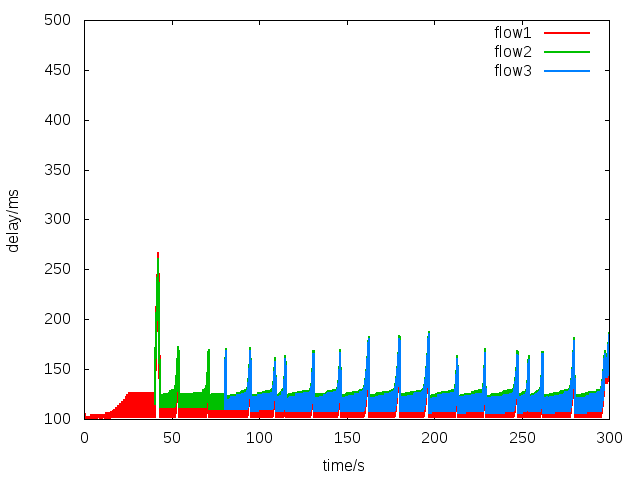
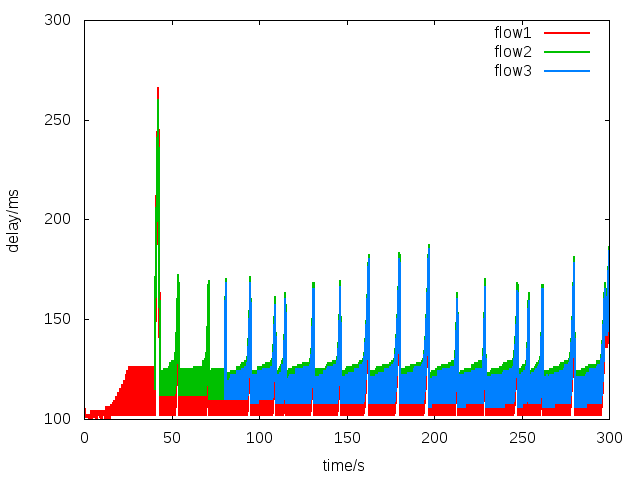
fig

diff --git a/README.md b/README.md
@@ -15,13 +15,17 @@ In simulation(razor-example/gcc_tcp.cc), a point to point channel was created. F
 
 ![image](https://github.com/sonyangchang/rmcat-ns3/blob/master/razor-example/gcc_razor_0remb.png)
 ![image](https://github.com/sonyangchang/rmcat-ns3/blob/master/razor-example/gcc_razor_1remb.png)  
-If you quite interesting the code, and think the above instrcution is quite complex, you could email me for the VM during the experiment.  
+If you quite interesting in this simualation, and think the above instrcution is quite complex, you could email me for the VM during the experiment.  
 some simualtion example of GCC algorithms:  
 bandwidth fainress property:  
 ![image](https://github.com/sonyangchang/rmcat-ns3/blob/master/webrtc-results/webrtc_4_bw.png)  
 owe way transmission delay:  
 ![image](https://github.com/sonyangchang/rmcat-ns3/blob/master/webrtc-results/webrtc_4_delay.png)  
-In some test case, if the WEBRTC_MIN_BITRATE is too small, gcc flows may not converge to the fairness line.  
+In some test case, gcc flows may not converge to the fairness line, case 1.  
+bandwidth fainress property:  
+![image](https://github.com/sonyangchang/rmcat-ns3/blob/master/webrtc-results/webrtc_1_bw.png)  
+owe way transmission delay:  
+![image](https://github.com/sonyangchang/rmcat-ns3/blob/master/webrtc-results/webrtc_1_delay.png)  
 
 The command to get webrtc-tcp running:  
 ```
